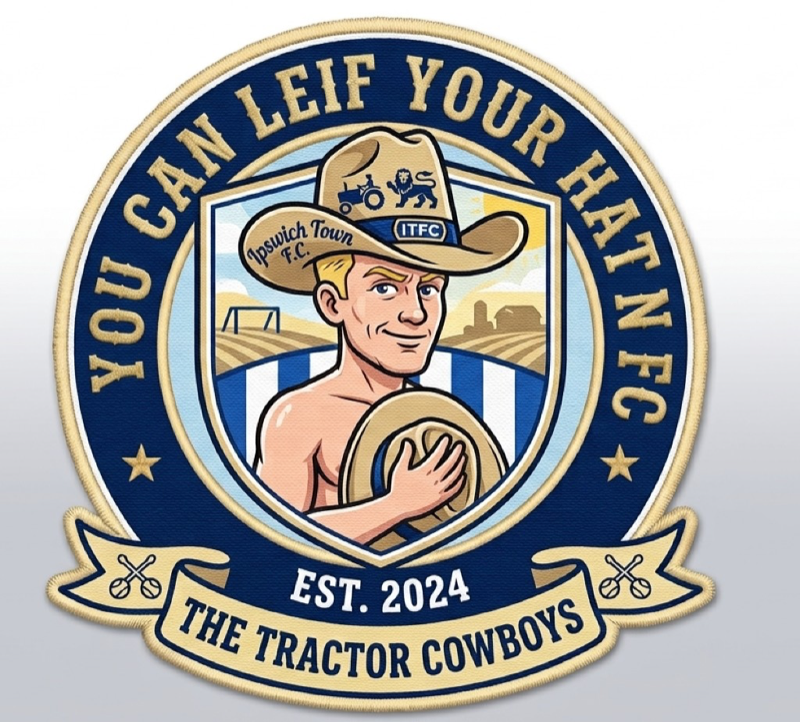
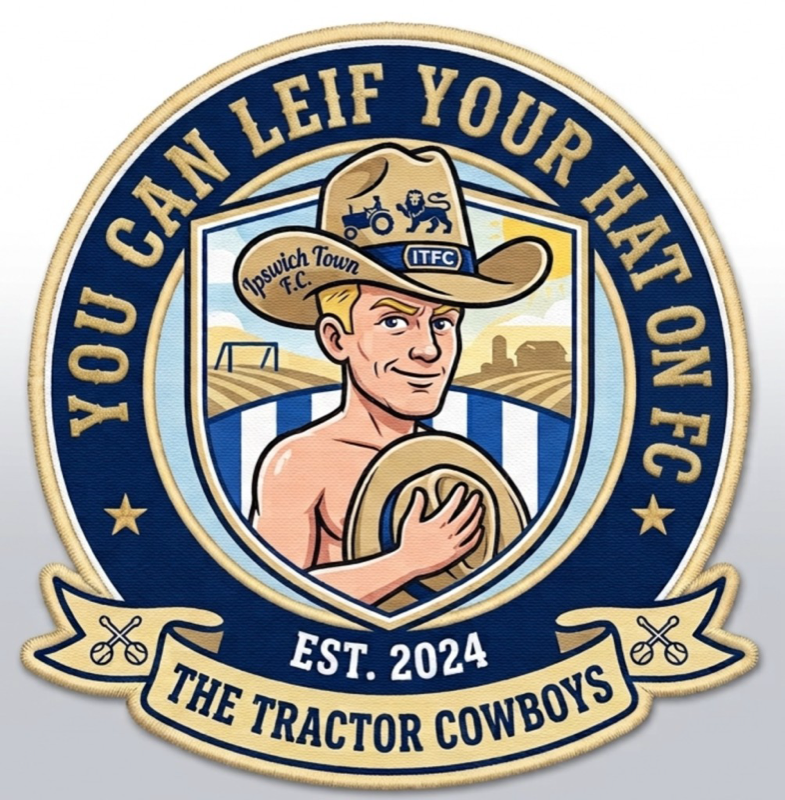
Fix Jon’s crest typo and tidy the team name.
Swap in the corrected crest and use Title Case “You Can Leif Your Hat On FC” to match the badge.

diff --git a/app/data/english-pyramid-fantasy.ts b/app/data/english-pyramid-fantasy.ts
@@ -427,9 +427,9 @@ export const ENGLISH_PYRAMID_FANTASY_PLAYERS: readonly EnglishPyramidFantasyPlay
   {
     id: 'jon',
     name: 'Jon',
-    teamName: 'You can leave Leif your hat on FC',
+    teamName: 'You Can Leif Your Hat On FC',
     managerImage: '/images/english-pyramid-fantasy/managers/jon.png',
-    clubCrest: '/images/english-pyramid-fantasy/crests/you-can-leave-leif-your-hat-on-fc.png?v=1',
+    clubCrest: '/images/english-pyramid-fantasy/crests/you-can-leave-leif-your-hat-on-fc.png?v=2',
     teams: [
       'MCI',
       'BUR',
